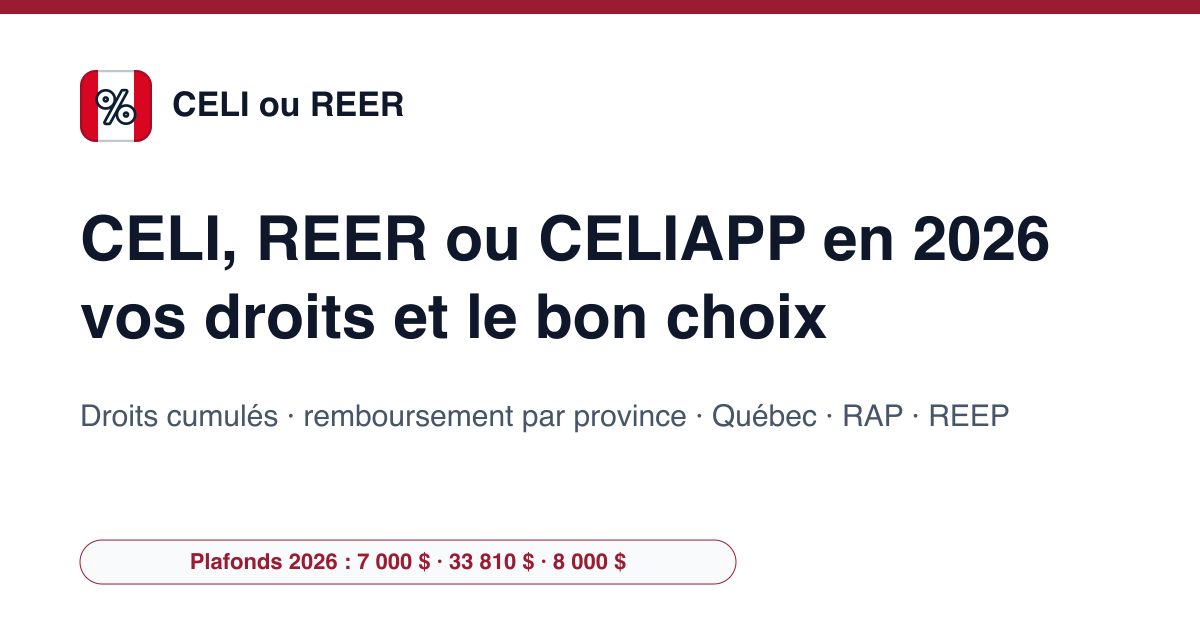
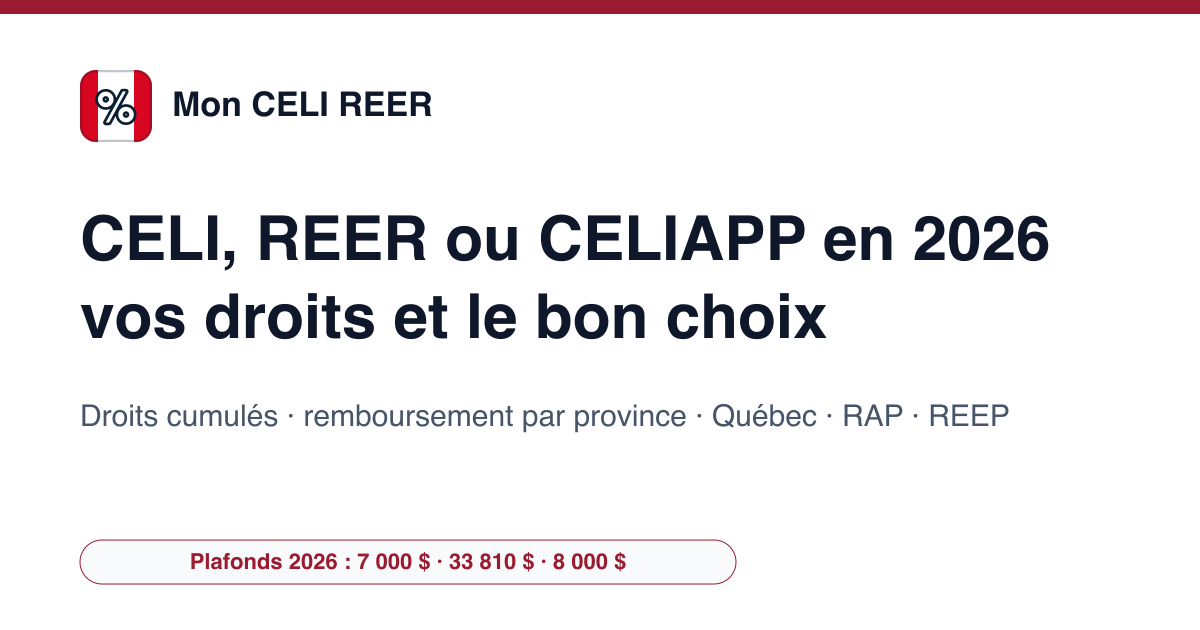
Domaine moncelireer.com : adresse, marque Mon CELI REER, CNAME et déploiement GitHub Pages avec ping IndexNow

Changed region(s): [[0.1233, 0.1206, 0.37, 0.181]]

diff --git a/src/data/site-config.ts b/src/data/site-config.ts
@@ -1,6 +1,6 @@
 /** Configuration centrale du site (générée par new-site.py). */
-export const SITE_URL = "https://ca-celi-reer.example";
-export const SITE_NAMES: Record<string, string> = {"fr": "CELI ou REER", "en": "TFSA or RRSP"};
+export const SITE_URL = "https://moncelireer.com";
+export const SITE_NAMES: Record<string, string> = {"fr": "Mon CELI REER", "en": "TFSA or RRSP"};
 export const LANG_TAGS: Record<string, string> = {"fr": "fr-CA", "en": "en-CA"};
 export const OG_LOCALES: Record<string, string> = {"fr": "fr_CA", "en": "en_CA"};
 export const LOCALE_TAG = 'fr-CA';
@@ -16,7 +16,7 @@ export const AUTHOR_DESC: Record<string, string> = {"fr": "Radif Partners recalc
  *  themes reellement traites par le site, pas une liste de mots-cles : un sujet
  *  declare ici sans page qui le couvre est une declaration fausse. */
 export const KNOWS_ABOUT: Record<string, string[]> = {"fr": ["Compte d'épargne libre d'impôt (CELI)", "Régime enregistré d'épargne-retraite (REER)", "Compte d'épargne libre d'impôt pour l'achat d'une première propriété (CELIAPP)", "Régime d'accession à la propriété (RAP)", "Régime d'encouragement à l'éducation permanente (REEP)", "Taux marginaux d'imposition fédéral et provinciaux"], "en": ["Tax-Free Savings Account (TFSA)", "Registered Retirement Savings Plan (RRSP)", "First Home Savings Account (FHSA)", "Home Buyers' Plan (HBP)", "Lifelong Learning Plan (LLP)", "Federal and provincial marginal tax rates"]};
-export const CONTACT_EMAIL = "contact@ca-celi-reer.example";
+export const CONTACT_EMAIL = "contact@moncelireer.com";
 export const THEME_COLOR = '#9B1B30';
 export const LOGO_SYMBOL = '%';
 export const BING_VERIFY_CODE = '';
